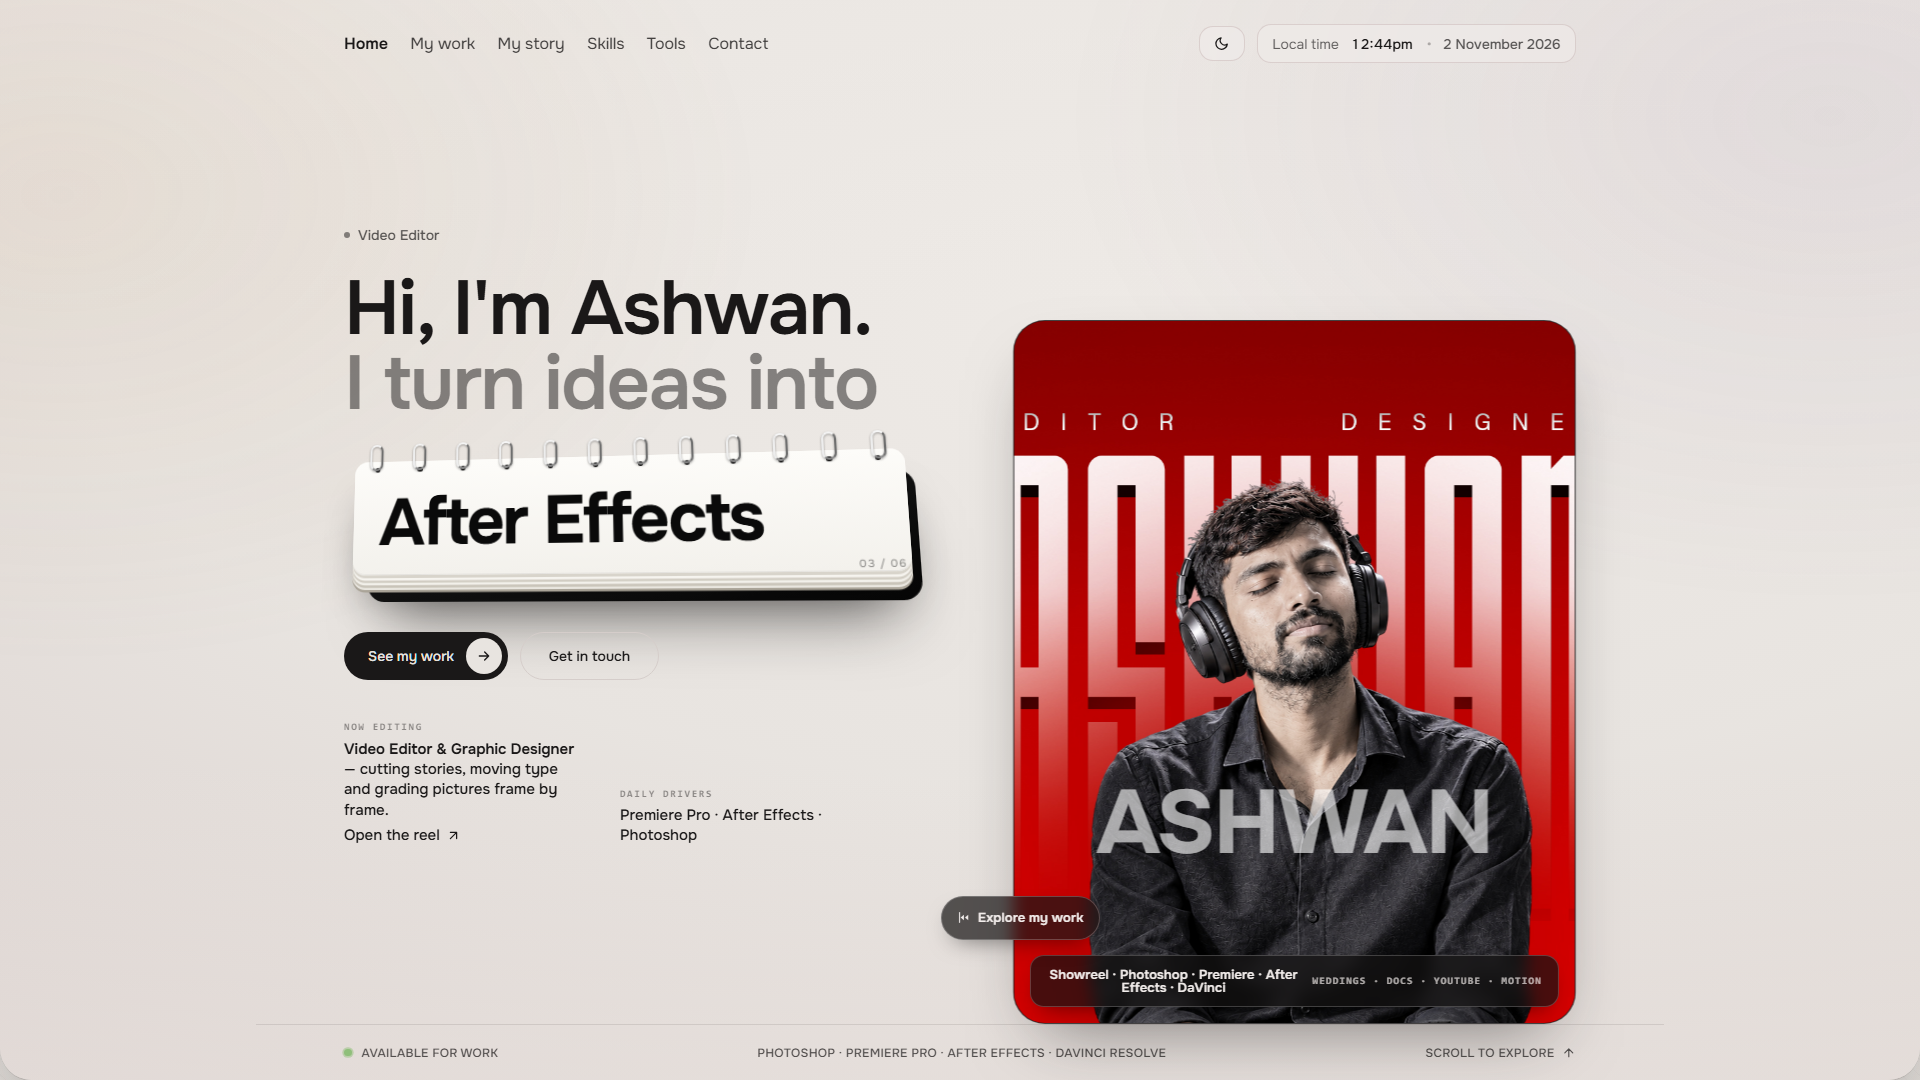
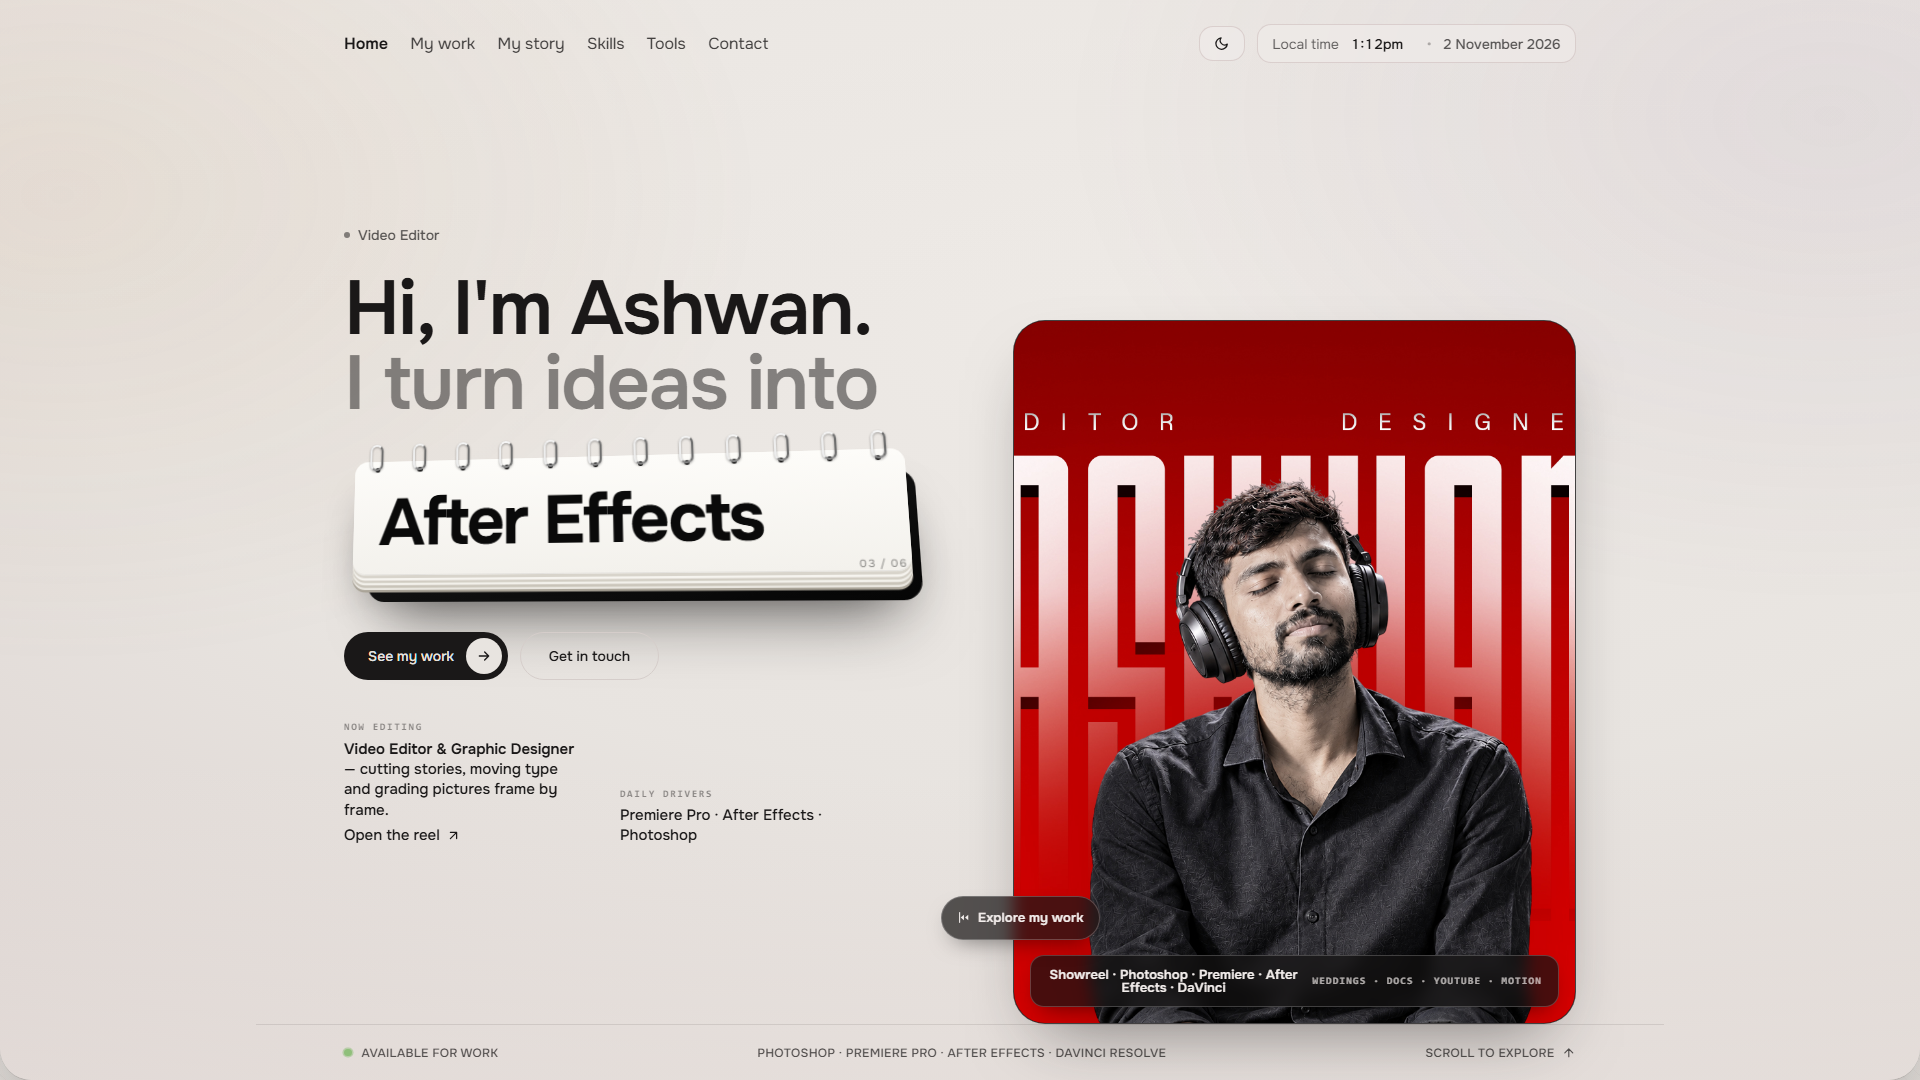
Remove ASHWAN watermark overlay from hero intro image

Changed region(s): [[0.5625, 0.7333, 0.7812, 0.7944], [0.7188, 0.0306, 0.75, 0.0611]]

diff --git a/src/styles/hero.css b/src/styles/hero.css
@@ -107,14 +107,6 @@ body.ready .fig { opacity: 1; transform: translate(-50%, 0); }
   pointer-events: none;
   user-select: none;
 }
-.reel__wm {
-  position: absolute; left: 50%; translate: -50% 0; bottom: 22%;
-  white-space: nowrap; user-select: none; pointer-events: none;
-  font-weight: 700; line-height: 1; letter-spacing: -0.02em;
-  color: rgba(255, 255, 255, 0.62);
-  font-size: clamp(3.4rem, 7.4vw, 5.6rem);
-}
-
 .reel__cap {
   position: absolute; left: 1rem; bottom: 1rem; right: 1rem;
   display: flex; align-items: center; justify-content: space-between; gap: 0.75rem;

diff --git a/src/components/Hero.jsx b/src/components/Hero.jsx
@@ -191,7 +191,6 @@ export default function Hero({ onOpenShowreel }) {
                 alt="Ashwan — Video Editor & Graphic Designer"
                 className="reel__photo"
               />
-              <span className="reel__wm">ASHWAN</span>
             </span>
             <span className="reel__cap">
               <span>{hero.showreelLabel}</span>
